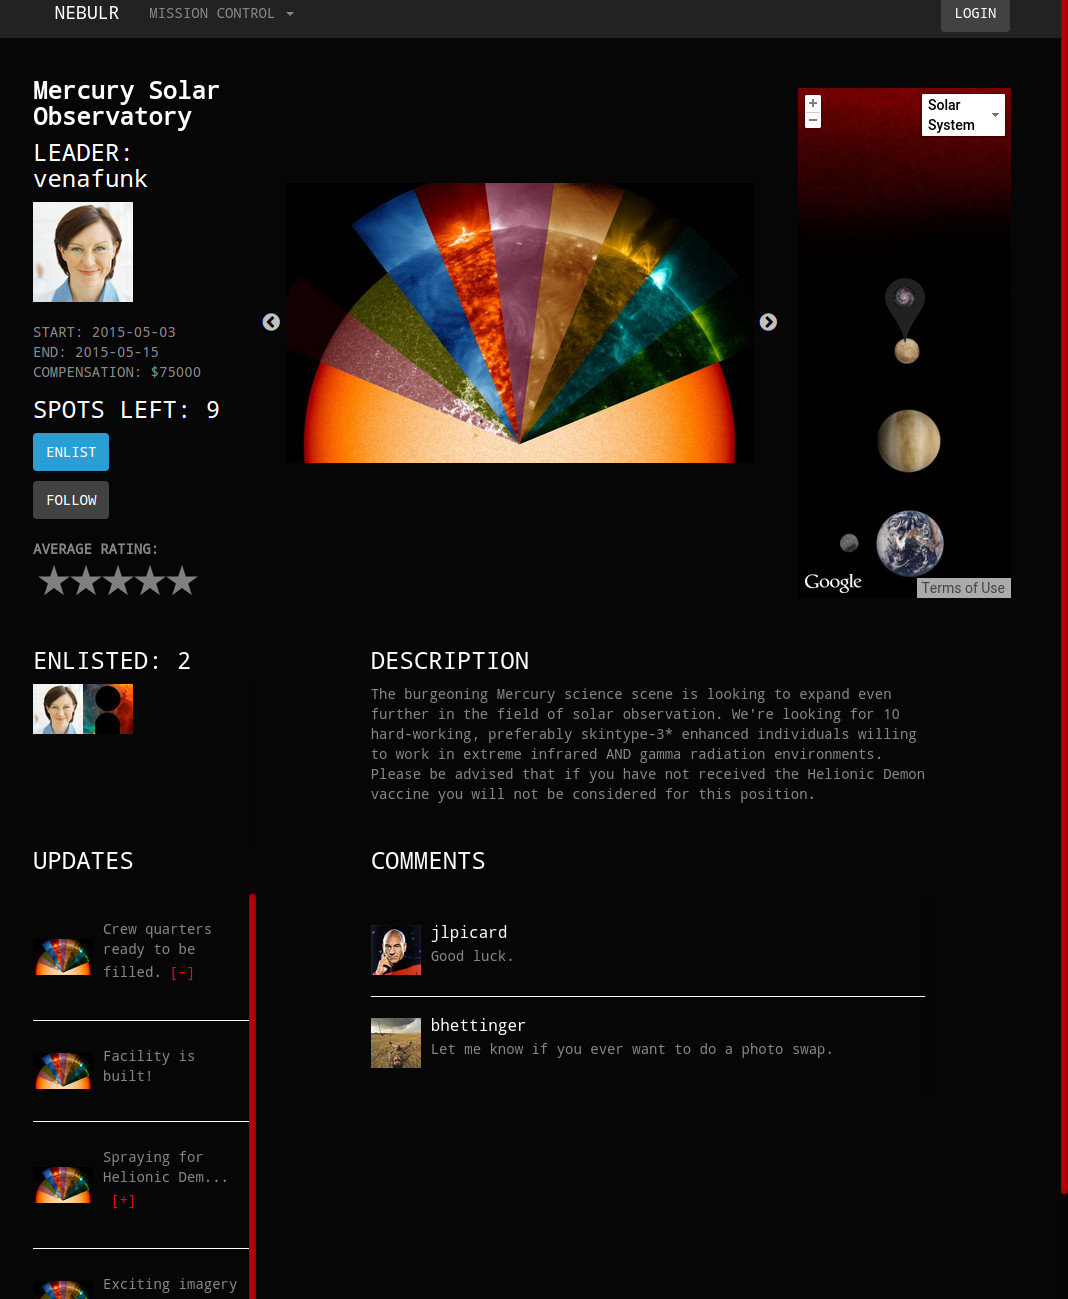
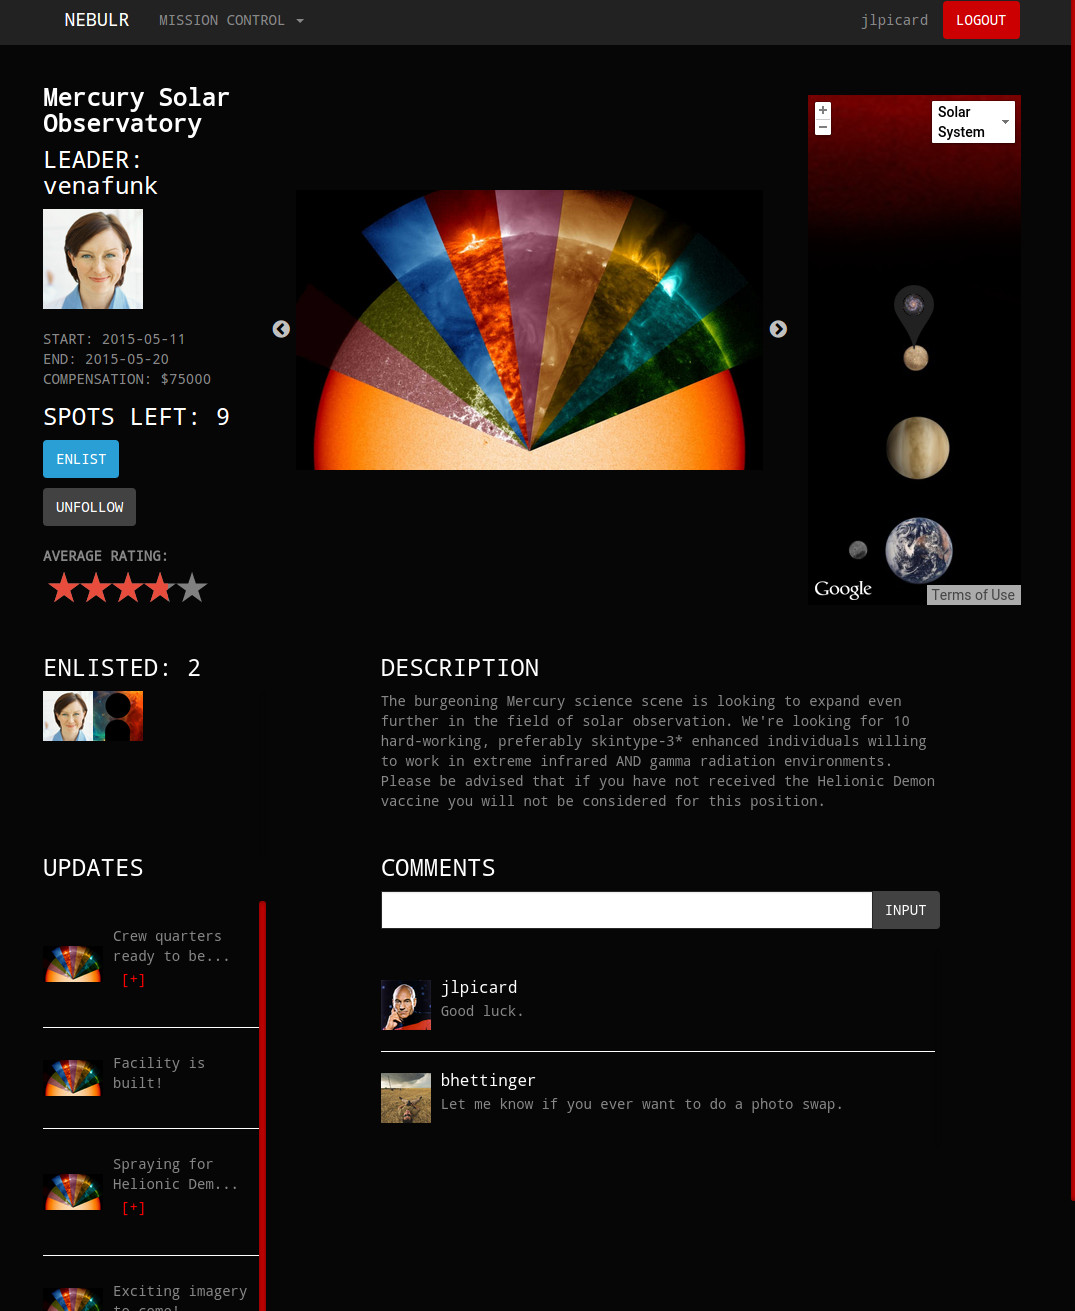
add random ratings; update mission_show.jpg

diff --git a/db/seeds.rb b/db/seeds.rb
@@ -756,7 +756,6 @@ mission16.follows.create(user_id: user21.id)
 mission16.follows.create(user_id: user22.id)
 mission16.follows.create(user_id: user23.id)
 
-
 num_missions = Mission.all.count
 
 while updates.any? { |arr| !arr.empty? }
@@ -767,4 +766,12 @@ end
 User.all.each do |user|
   user.comments.create(user_id: user4.id, body: 'YOU WILL BE ASSIMILATED')
   user.comments.create(user_id: user4.id, body: 'RESISTANCE IS FUTILE')
+end
+
+user_count = User.all.count
+
+3.times do
+  Mission.all.each_with_index do |mission, idx|
+    mission.ratings.create(value: rand(6), user_id: idx % (user_count - 1))
+  end
 end
